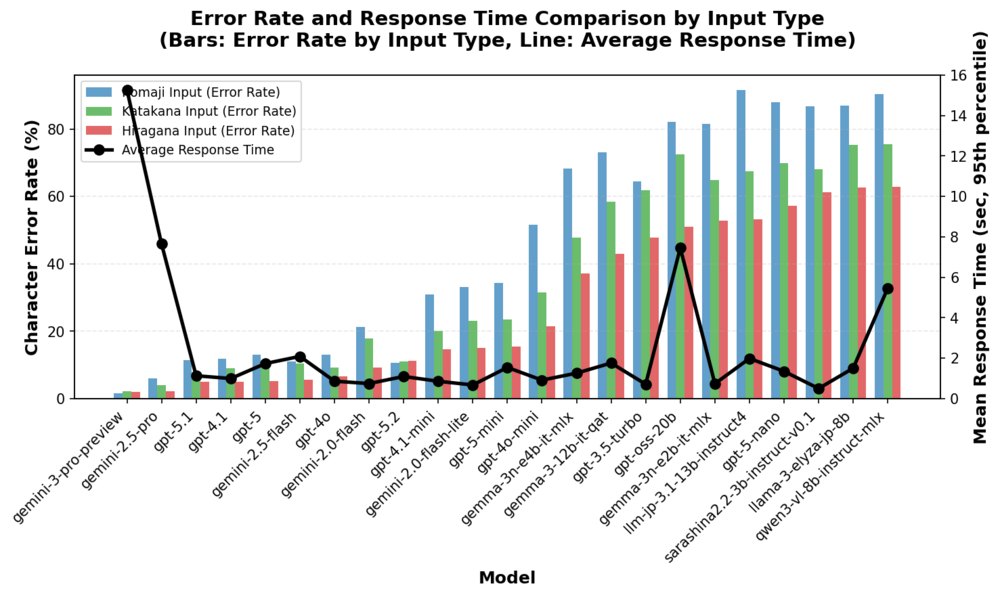
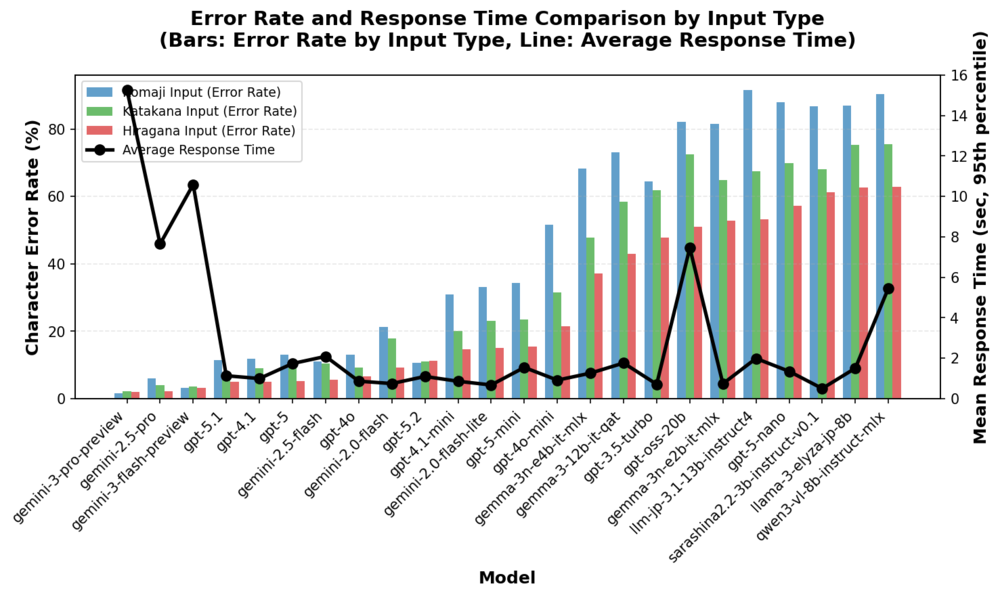
gemini-3-flash-previewの計測結果をグラフとREADME.mdに反映

diff --git a/benchmark/plot_errorrate_vs_cost.py b/benchmark/plot_errorrate_vs_cost.py
@@ -98,6 +98,7 @@ DATA_V24: Dict[str, Dict[str, float]] = {
     "gemini-2.5-flash": {"cer": 0.109744, "elapsed": 14.765599},
     "gemini-2.5-pro": {"cer": 0.048225, "elapsed": 78.868088},
     "gemini-3-pro-preview": {"cer": 0.016123, "elapsed": 43.236321},
+    "gemini-3-flash-preview": {"cer": 0.032238, "elapsed": 9.874763},
     "gemma-3-12b-it-qat": {"cer": 0.730364, "elapsed": 2.018562},
     "gpt-4.1-mini": {"cer": 0.308427, "elapsed": 1.597734},
     "gpt-4.1": {"cer": 0.117064, "elapsed": 2.704047},

diff --git a/README.md b/README.md
@@ -78,6 +78,8 @@ https://github.com/user-attachments/assets/7fae1c5b-84ed-402c-9b5e-9bfb39f29237
 Sumibiを快適に使うためには、応答速度と変換精度の両方を満たすモデルが必要です。
 以下の青枠の中がスイートスポットですが、その中でもランニングコストなども考慮して、gpt-5.1とgemini-2.0-flashが最も適しているといえます。(2025年11月時点)
 
+**注記**: gemini-3-flash-previewは非常に高精度（エラー率3.1%）ですが、応答時間が11秒程度と長く、IMEの実用基準（2秒以内）を満たしていません。これはpreview版であるためと考えられ、stable版がリリースされた際には応答速度が改善される可能性があります。stable版がリリースされた際には再度ベンチマークを実施する予定です。
+
 ![plot_errorrate_vs_inputtype_hiragana_1000x600.png](./images/plot_errorrate_vs_inputtype_hiragana_1000x600.png)
 
 ## Undo
